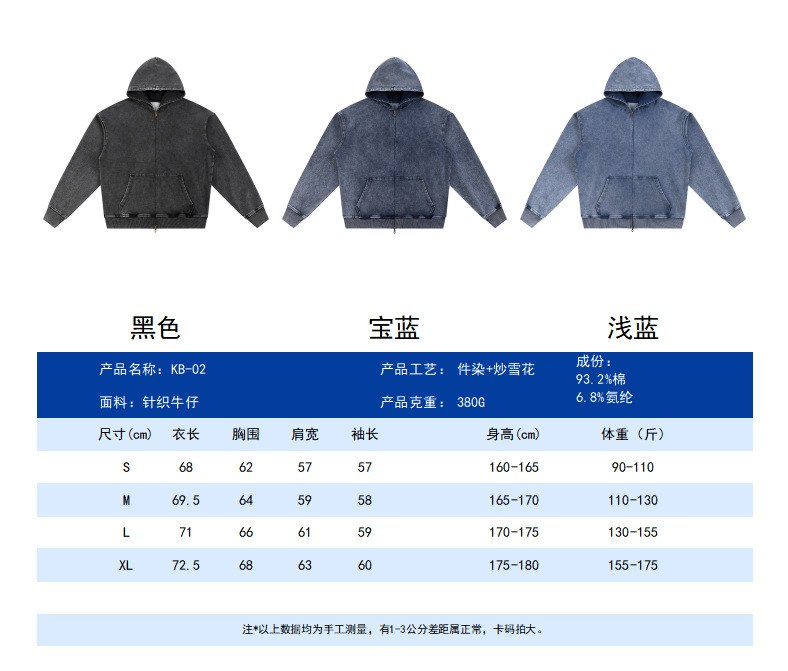
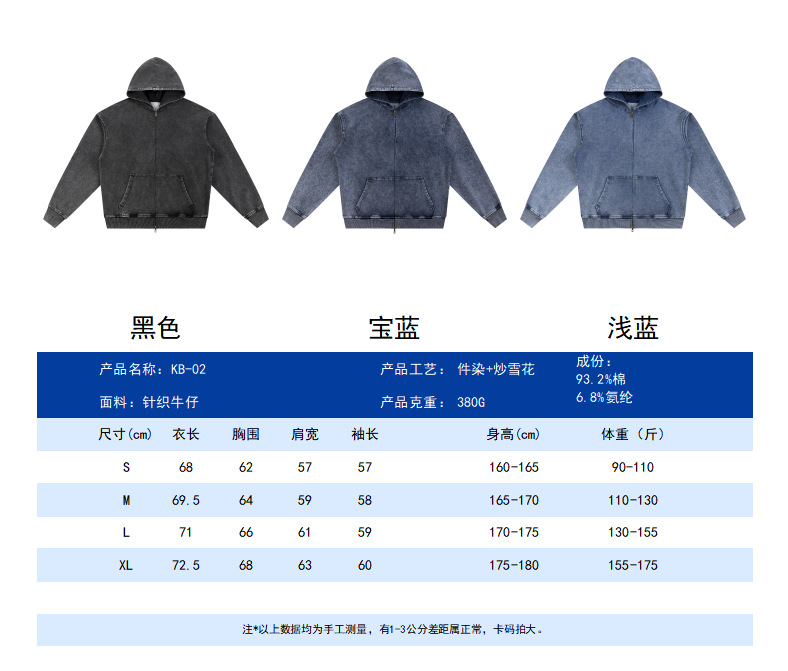
feat(KB02): add authentic size chart and sizing guide for KB02 washed denim zip hoodie

diff --git a/index.html b/index.html
@@ -8,7 +8,7 @@
   <link rel="preconnect" href="https://fonts.googleapis.com">
   <link rel="preconnect" href="https://fonts.gstatic.com" crossorigin>
   <link href="https://fonts.googleapis.com/css2?family=Plus+Jakarta+Sans:wght@400;500;600;700;800&display=swap" rel="stylesheet">
-  <link rel="stylesheet" href="styles.css?v=86">
+  <link rel="stylesheet" href="styles.css?v=87">
 </head>
 <body class="theme-light">
   <!-- Mobile Viewport Wrapper (Native Fullscreen Mobile View) -->
@@ -1217,8 +1217,8 @@
   <!-- Floating Toast Notification -->
   <div class="app-toast" id="appToast">Notification</div>
 
-  <script src="prints_data.js?v=86"></script>
-  <script src="products_data.js?v=86"></script>
-  <script src="app.js?v=86"></script>
+  <script src="prints_data.js?v=87"></script>
+  <script src="products_data.js?v=87"></script>
+  <script src="app.js?v=87"></script>
 </body>
 </html>

diff --git a/products_data.js b/products_data.js
@@ -2350,7 +2350,14 @@
                                       "assets/products/KB02/detail/6.jpg",
                                       "assets/products/KB02/detail/7.jpg",
                                       "assets/products/KB02/detail/8.jpg"
-                                  ]
+                                  ],
+                 "sizes":  [
+                               "S",
+                               "M",
+                               "L",
+                               "XL"
+                           ],
+                 "sizeChart":  "assets/products/KB02/size/size_chart_garment.jpg"
              },
     "WY18":  {
                  "id":  "WY18",
